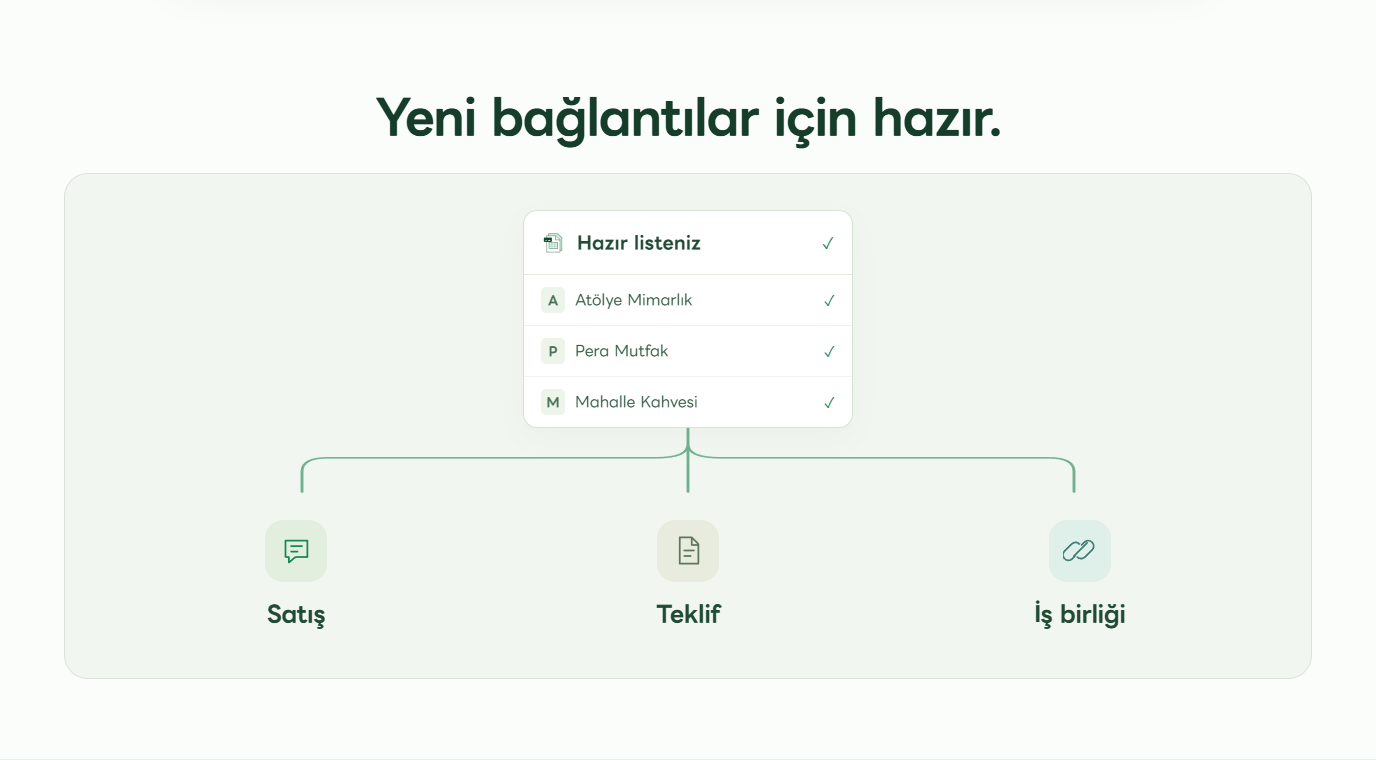
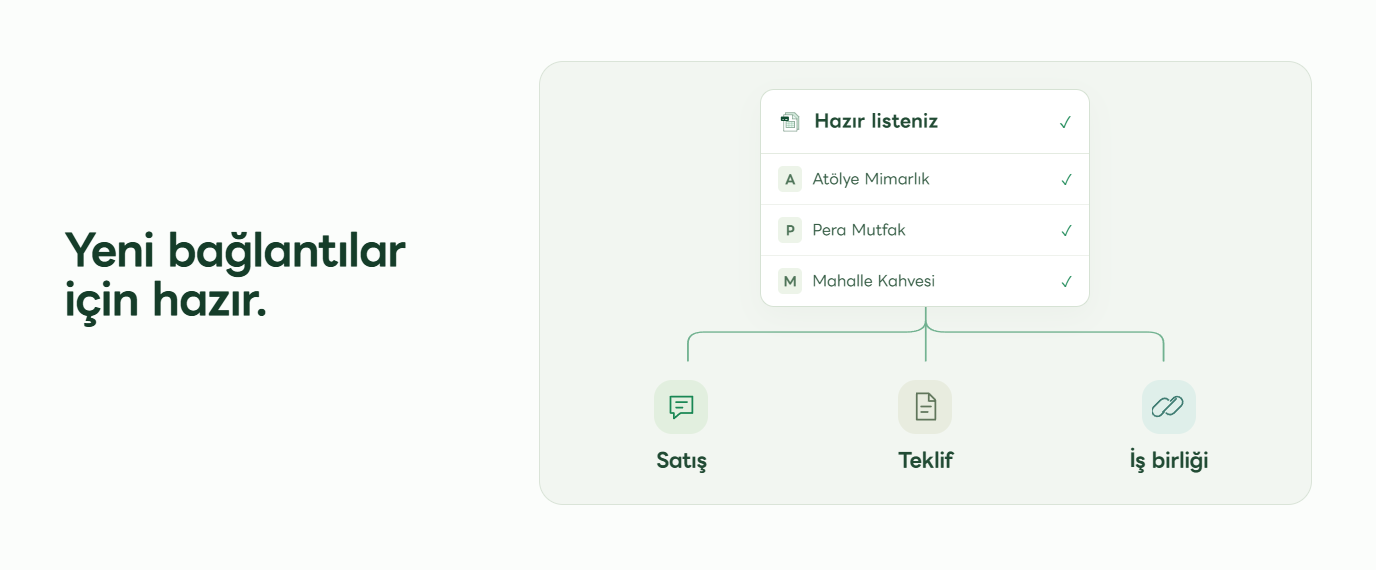
feat: genis ekran desktop pair duzenlemeleri, glass menu ve son gorsel gelistirmeleri birlestir

diff --git a/public/index.html b/public/index.html
@@ -5,7 +5,7 @@
 <meta content="#0F4C30" name="theme-color"/>
 <title>Veri Burada | Toplu işletme araştırması ve müşteri listeleri</title>
 <meta content="Google Haritalar’daki işletmeleri bölge ve sektöre göre bulun. Telefon, web sitesi ve adres bilgilerini topluca listeleyin, CSV olarak indirin." name="description"/>
-<noscript><style>.reveal{opacity:1;transform:none}.geo-map{background-image:url(istanbul-map-display-v4.webp)}.film-control,.film-chapters,.map-search-button,.geo-zoom,.menu-toggle,.panel-export{display:none}.header nav{display:flex!important}.audience-tabs{display:none}@media(max-width:760px){.hero{padding-top:105px}}.hero-cinema .cinema-map,.hero-cinema .cinema-business,.hero-cinema .cinema-query,.hero-cinema .cinema-pin{display:none}.hero-cinema .cinema-table,.hero-cinema .cinema-table-ready,.hero-cinema .cinema-table-row{opacity:1!important}.hero-film-controls{display:none}.geo-map,.target-map{background-image:url(istanbul-map-display-v4.webp)!important}.hero-film-controls,.film-control,.film-next,.modal-video-chrome{display:none}.motion-poster{display:block!important}</style></noscript><link href="favicon.ico?v=brand3" rel="icon" type="image/x-icon"/><meta content="Bir arama yapın. Listeniz oluşsun. | Veri Burada" property="og:title"/><meta content="Bölge ve sektör seçin. İşletme bilgilerini topluca listenize alın." property="og:description"/><meta content="website" property="og:type"/><link as="font" crossorigin="" href="/fonts/line-seed-latin-400.woff2" rel="preload" type="font/woff2"/><link as="font" crossorigin="" href="/fonts/line-seed-latin-700.woff2" rel="preload" type="font/woff2"/><script defer="" src="/analytics.js"></script><link href="https://www.veriburada.com/" rel="canonical"/><meta content="https://www.veriburada.com/" property="og:url"/><meta content="https://www.veriburada.com/social-card.png" property="og:image"/><meta content="tr_TR" property="og:locale"/><meta content="summary_large_image" name="twitter:card"/><script type="application/ld+json">{"@context": "https://schema.org", "@graph": [{"@type": "Organization", "@id": "https://www.veriburada.com/#organization", "name": "Veri Burada", "url": "https://www.veriburada.com/", "logo": "https://www.veriburada.com/brand-wordmark.webp"}, {"@type": "WebSite", "@id": "https://www.veriburada.com/#website", "url": "https://www.veriburada.com/", "name": "Veri Burada", "inLanguage": "tr-TR"}, {"@type": "SoftwareApplication", "name": "Veri Burada", "applicationCategory": "BusinessApplication", "operatingSystem": "Web browser", "description": "Bölge ve sektöre göre işletme araştırması ve CSV listeleri için web uygulaması."}]}</script><link href="landing.css?v=1793226064" rel="stylesheet"/><script defer="" src="landing.js?v=1793226064"></script><link href="landing-refinements.css?v=1793226064" rel="stylesheet"/><script defer="" src="landing-refinements.js?v=1793226064"></script></head>
+<noscript><style>.reveal{opacity:1;transform:none}.geo-map{background-image:url(istanbul-map-display-v4.webp)}.film-control,.film-chapters,.map-search-button,.geo-zoom,.menu-toggle,.panel-export{display:none}.header nav{display:flex!important}.audience-tabs{display:none}@media(max-width:760px){.hero{padding-top:105px}}.hero-cinema .cinema-map,.hero-cinema .cinema-business,.hero-cinema .cinema-query,.hero-cinema .cinema-pin{display:none}.hero-cinema .cinema-table,.hero-cinema .cinema-table-ready,.hero-cinema .cinema-table-row{opacity:1!important}.hero-film-controls{display:none}.geo-map,.target-map{background-image:url(istanbul-map-display-v4.webp)!important}.hero-film-controls,.film-control,.film-next,.modal-video-chrome{display:none}.motion-poster{display:block!important}</style></noscript><link href="favicon.ico?v=brand3" rel="icon" type="image/x-icon"/><meta content="Bir arama yapın. Listeniz oluşsun. | Veri Burada" property="og:title"/><meta content="Bölge ve sektör seçin. İşletme bilgilerini topluca listenize alın." property="og:description"/><meta content="website" property="og:type"/><link as="font" crossorigin="" href="/fonts/line-seed-latin-400.woff2" rel="preload" type="font/woff2"/><link as="font" crossorigin="" href="/fonts/line-seed-latin-700.woff2" rel="preload" type="font/woff2"/><script defer="" src="/analytics.js"></script><link href="https://www.veriburada.com/" rel="canonical"/><meta content="https://www.veriburada.com/" property="og:url"/><meta content="https://www.veriburada.com/social-card.png" property="og:image"/><meta content="tr_TR" property="og:locale"/><meta content="summary_large_image" name="twitter:card"/><script type="application/ld+json">{"@context": "https://schema.org", "@graph": [{"@type": "Organization", "@id": "https://www.veriburada.com/#organization", "name": "Veri Burada", "url": "https://www.veriburada.com/", "logo": "https://www.veriburada.com/brand-wordmark.webp"}, {"@type": "WebSite", "@id": "https://www.veriburada.com/#website", "url": "https://www.veriburada.com/", "name": "Veri Burada", "inLanguage": "tr-TR"}, {"@type": "SoftwareApplication", "name": "Veri Burada", "applicationCategory": "BusinessApplication", "operatingSystem": "Web browser", "description": "Bölge ve sektöre göre işletme araştırması ve CSV listeleri için web uygulaması."}]}</script><link href="landing.css?v=1793226222" rel="stylesheet"/><script defer="" src="landing.js?v=1793226222"></script><link href="landing-refinements.css?v=1793226222" rel="stylesheet"/><script defer="" src="landing-refinements.js?v=1793226222"></script></head>
 <body class="final-edition">
 <a class="skip-link" href="#main">İçeriğe geç</a>
 <header class="header"><a aria-label="Veriburada ana sayfa" class="brand" href="#"><img alt="veri burada" decoding="async" fetchpriority="high" height="375" src="brand-wordmark.webp" width="1200"/></a><nav aria-label="Ana menü" id="main-navigation"><a href="/nasil-calisir/">Nasıl çalışır?</a><a href="/ozellikler/">Özellikler</a><a href="/pricing/">Fiyatlandırma</a></nav><button aria-haspopup="dialog" class="header-start" data-auth-open="" id="hesap" type="button">Hemen başla</button><button aria-controls="site-menu" aria-expanded="false" aria-label="Menüyü aç" class="menu-toggle"><span></span><span></span></button></header>

diff --git a/public/landing-refinements.css b/public/landing-refinements.css
@@ -79,3 +79,5 @@
 @media(min-width:1001px){.header-dock>.header.header.menu-open{top:12px!important;width:calc(100% - 48px)!important;max-width:1040px!important;height:74px!important;margin-inline:auto!important;padding-inline:30px!important;border:1px solid #ffffffbd!important;border-radius:23px!important;background:rgba(250,253,250,.91)!important;backdrop-filter:blur(24px) saturate(1.15)!important;box-shadow:0 9px 30px #183e2610!important}.header.menu-open>.brand{width:178px!important}.header.menu-open .menu-toggle{margin-left:auto!important}.menu-panel{left:50%!important;right:auto!important;top:98px!important;width:min(1040px,calc(100vw - 48px))!important;max-width:none!important;padding:29px 36px 26px!important;box-sizing:border-box;max-height:calc(100dvh - 118px)!important;transform:translate(-50%,-8px)!important;border-radius:23px!important}.navigation-open .menu-panel{transform:translate(-50%,0)!important}.menu-grid{gap:65px;padding:20px 0 23px}.menu-group a{padding:11px 12px;margin-inline:-12px}.menu-auth{gap:12px}.menu-auth a{min-height:46px}.navigation-open .header-dock{z-index:80}}
 @media(max-width:1000px){.menu-panel{background:rgba(250,253,250,.95)!important}.menu-group a{font-size:18px!important}.menu-group>p{font-size:12px!important}}
 @supports not (backdrop-filter:blur(1px)){.menu-panel,.header.menu-open{background:#fafdfa!important}}
+/* Wide screens use editorial pairs instead of stretching mobile stacks. */
+@media(min-width:1101px){.film-section{padding:65px 0!important}.film-section>.wrap{display:grid;grid-template-columns:minmax(0,.7fr) minmax(0,1.3fr);align-items:center;gap:58px}.film-section .film-heading{display:block!important;margin:0!important;min-width:0;text-align:left!important}.film-heading h2{font-size:43px!important;line-height:1.13!important;letter-spacing:-1.5px!important;max-width:360px}.film-heading>p{font-size:17px!important;line-height:1.75!important;margin:22px 0 0!important;max-width:340px}.film-section .film-player{width:100%;min-width:0;margin:0!important}.film-section .film-media{aspect-ratio:3/2!important;min-height:0!important;height:auto!important}.connection-section{padding-top:60px!important;padding-bottom:45px!important}.connection-heading h2{font-size:43px!important;max-width:550px}.connection-stage{margin-top:22px!important}.sample-section{display:grid!important;grid-template-columns:minmax(0,.7fr) minmax(0,1.3fr);gap:58px!important;align-items:center;padding-top:65px!important;padding-bottom:65px!important}.sample-section .output-heading{display:block!important;margin:0!important;min-width:0}.output-heading h2{font-size:42px!important;max-width:350px;margin:0!important;line-height:1.15!important}.output-heading p{font-size:17px!important;line-height:1.7!important;margin:22px 0!important;max-width:330px}.output-heading .output-link{font-size:15px!important}.sample-section .output-window{min-width:0}.sample-section .output-table-scroll tr>:nth-child(2),.sample-section .output-table-scroll tr>:nth-child(4),.sample-section .output-table-scroll tr>:nth-child(5){display:none!important}.sample-section .output-table-scroll tr>:first-child{width:52%!important}.sample-section .output-table-scroll tr>:nth-child(3){width:48%!important}.sample-section .output-table-scroll th,.sample-section .output-table-scroll td{padding:19px 17px!important;font-size:15px!important}.list-purpose-section{display:grid;grid-template-columns:minmax(0,.7fr) minmax(0,1.3fr);gap:58px;align-items:center;padding-top:60px!important;padding-bottom:65px!important}.list-purpose-section>.section-heading{text-align:left!important;margin:0!important}.list-purpose-section .section-heading h2{font-size:43px;max-width:350px;line-height:1.13}.list-purpose-film{padding:27px 29px 20px}.lp-distribution{height:55px}.lp-use{padding-top:19px!important;padding-bottom:12px!important;min-height:115px}.lp-use h3{font-size:20px}.lp-use-icon{width:54px;height:54px;margin-bottom:12px}.pricing-section{padding-top:65px!important;padding-bottom:65px!important}.brand-evidence{padding-top:25px!important;padding-bottom:25px!important}.product-facts{padding-bottom:40px!important}}
